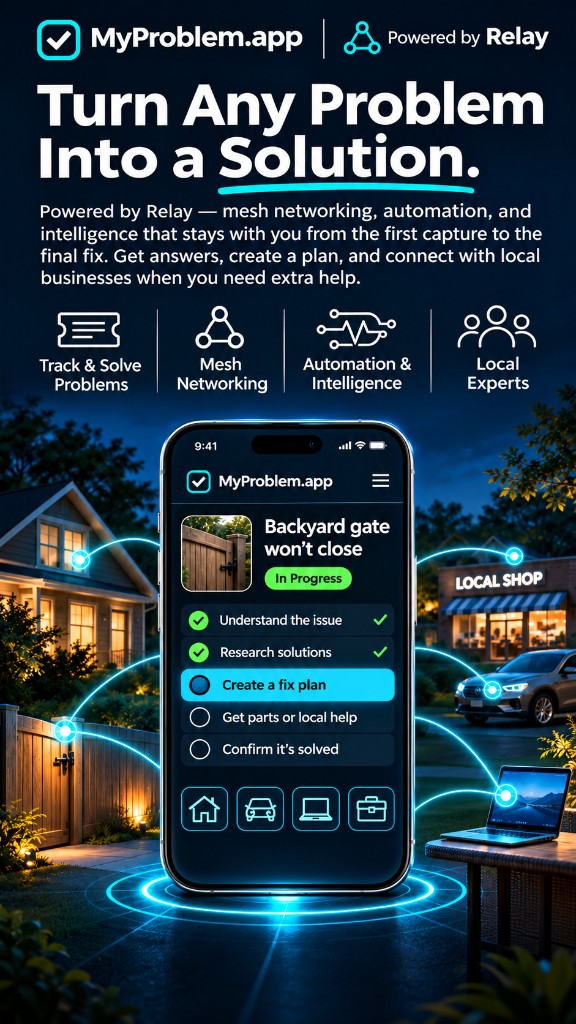
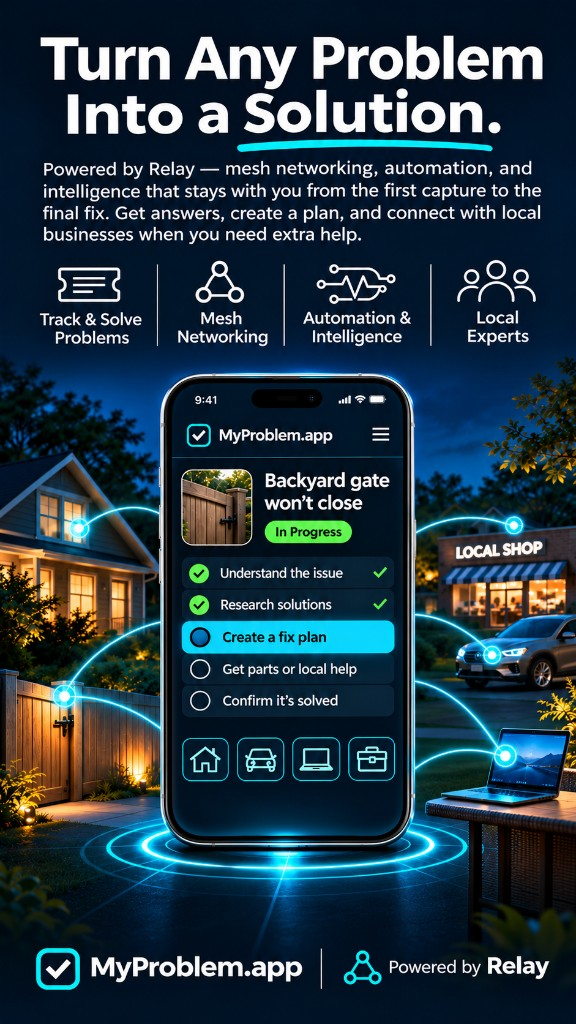
feat: refresh hero landscape and portrait art
Replace the Relay mesh banners, sync og.jpg, and retune wing blue
to the new 1024×576 landscape edge color.

diff --git a/src/app/page.tsx b/src/app/page.tsx
@@ -32,7 +32,7 @@ export default function HomePage() {
                 src="/hero.jpg"
                 alt="MyProblem — turn any problem into a solution, powered by Relay networking, automation, and intelligence"
                 width={1024}
-                height={341}
+                height={576}
                 className="hero-photo"
                 decoding="async"
                 fetchPriority="high"

diff --git a/src/app/globals.css b/src/app/globals.css
@@ -269,8 +269,8 @@ textarea:focus-visible,
 }
 
 .hero {
-  /* Left-edge night navy from hero.jpg (0,16,31) — full-bleed wings */
-  --hero-blue: #00101f;
+  /* Left-edge night navy from hero.jpg (~5,20,32) — full-bleed wings */
+  --hero-blue: #051420;
   position: relative;
   width: 100%;
   border-top: none;

diff --git a/src/app/layout.tsx b/src/app/layout.tsx
@@ -89,7 +89,7 @@ export const metadata: Metadata = {
       {
         url: "/og.jpg",
         width: 1024,
-        height: 341,
+        height: 576,
         alt: "MyProblem — turn any problem into a solution",
       },
     ],
